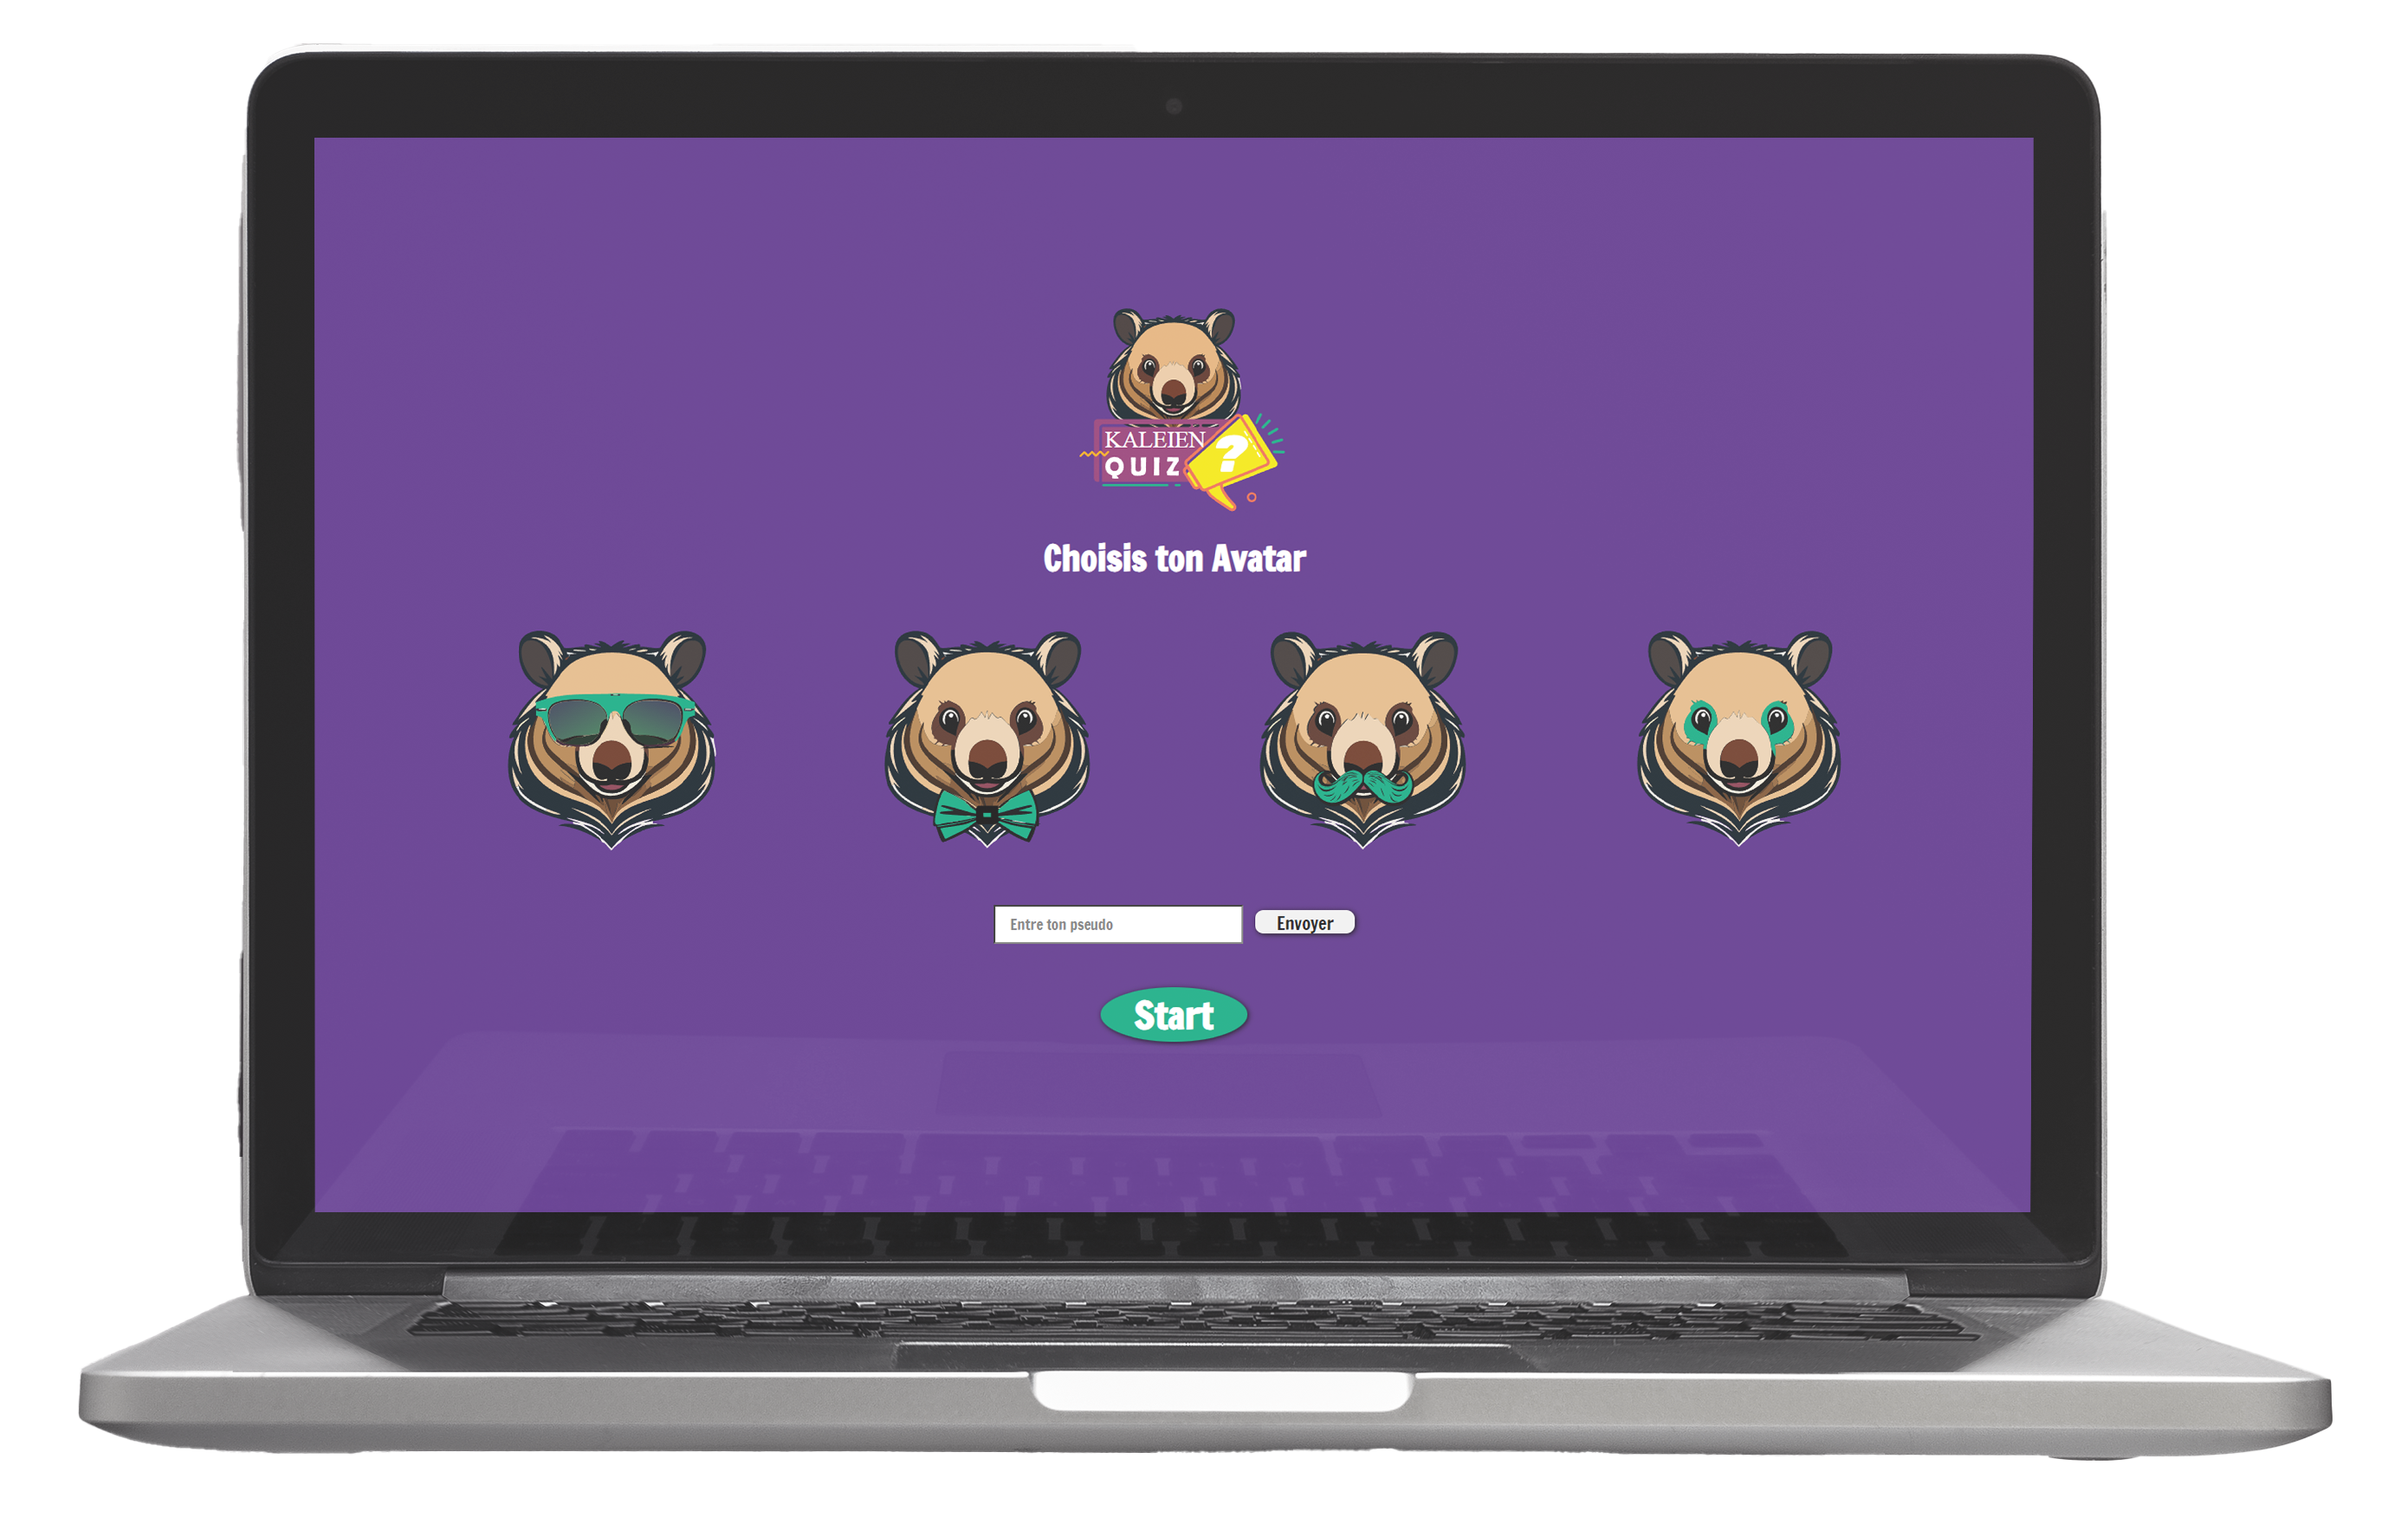
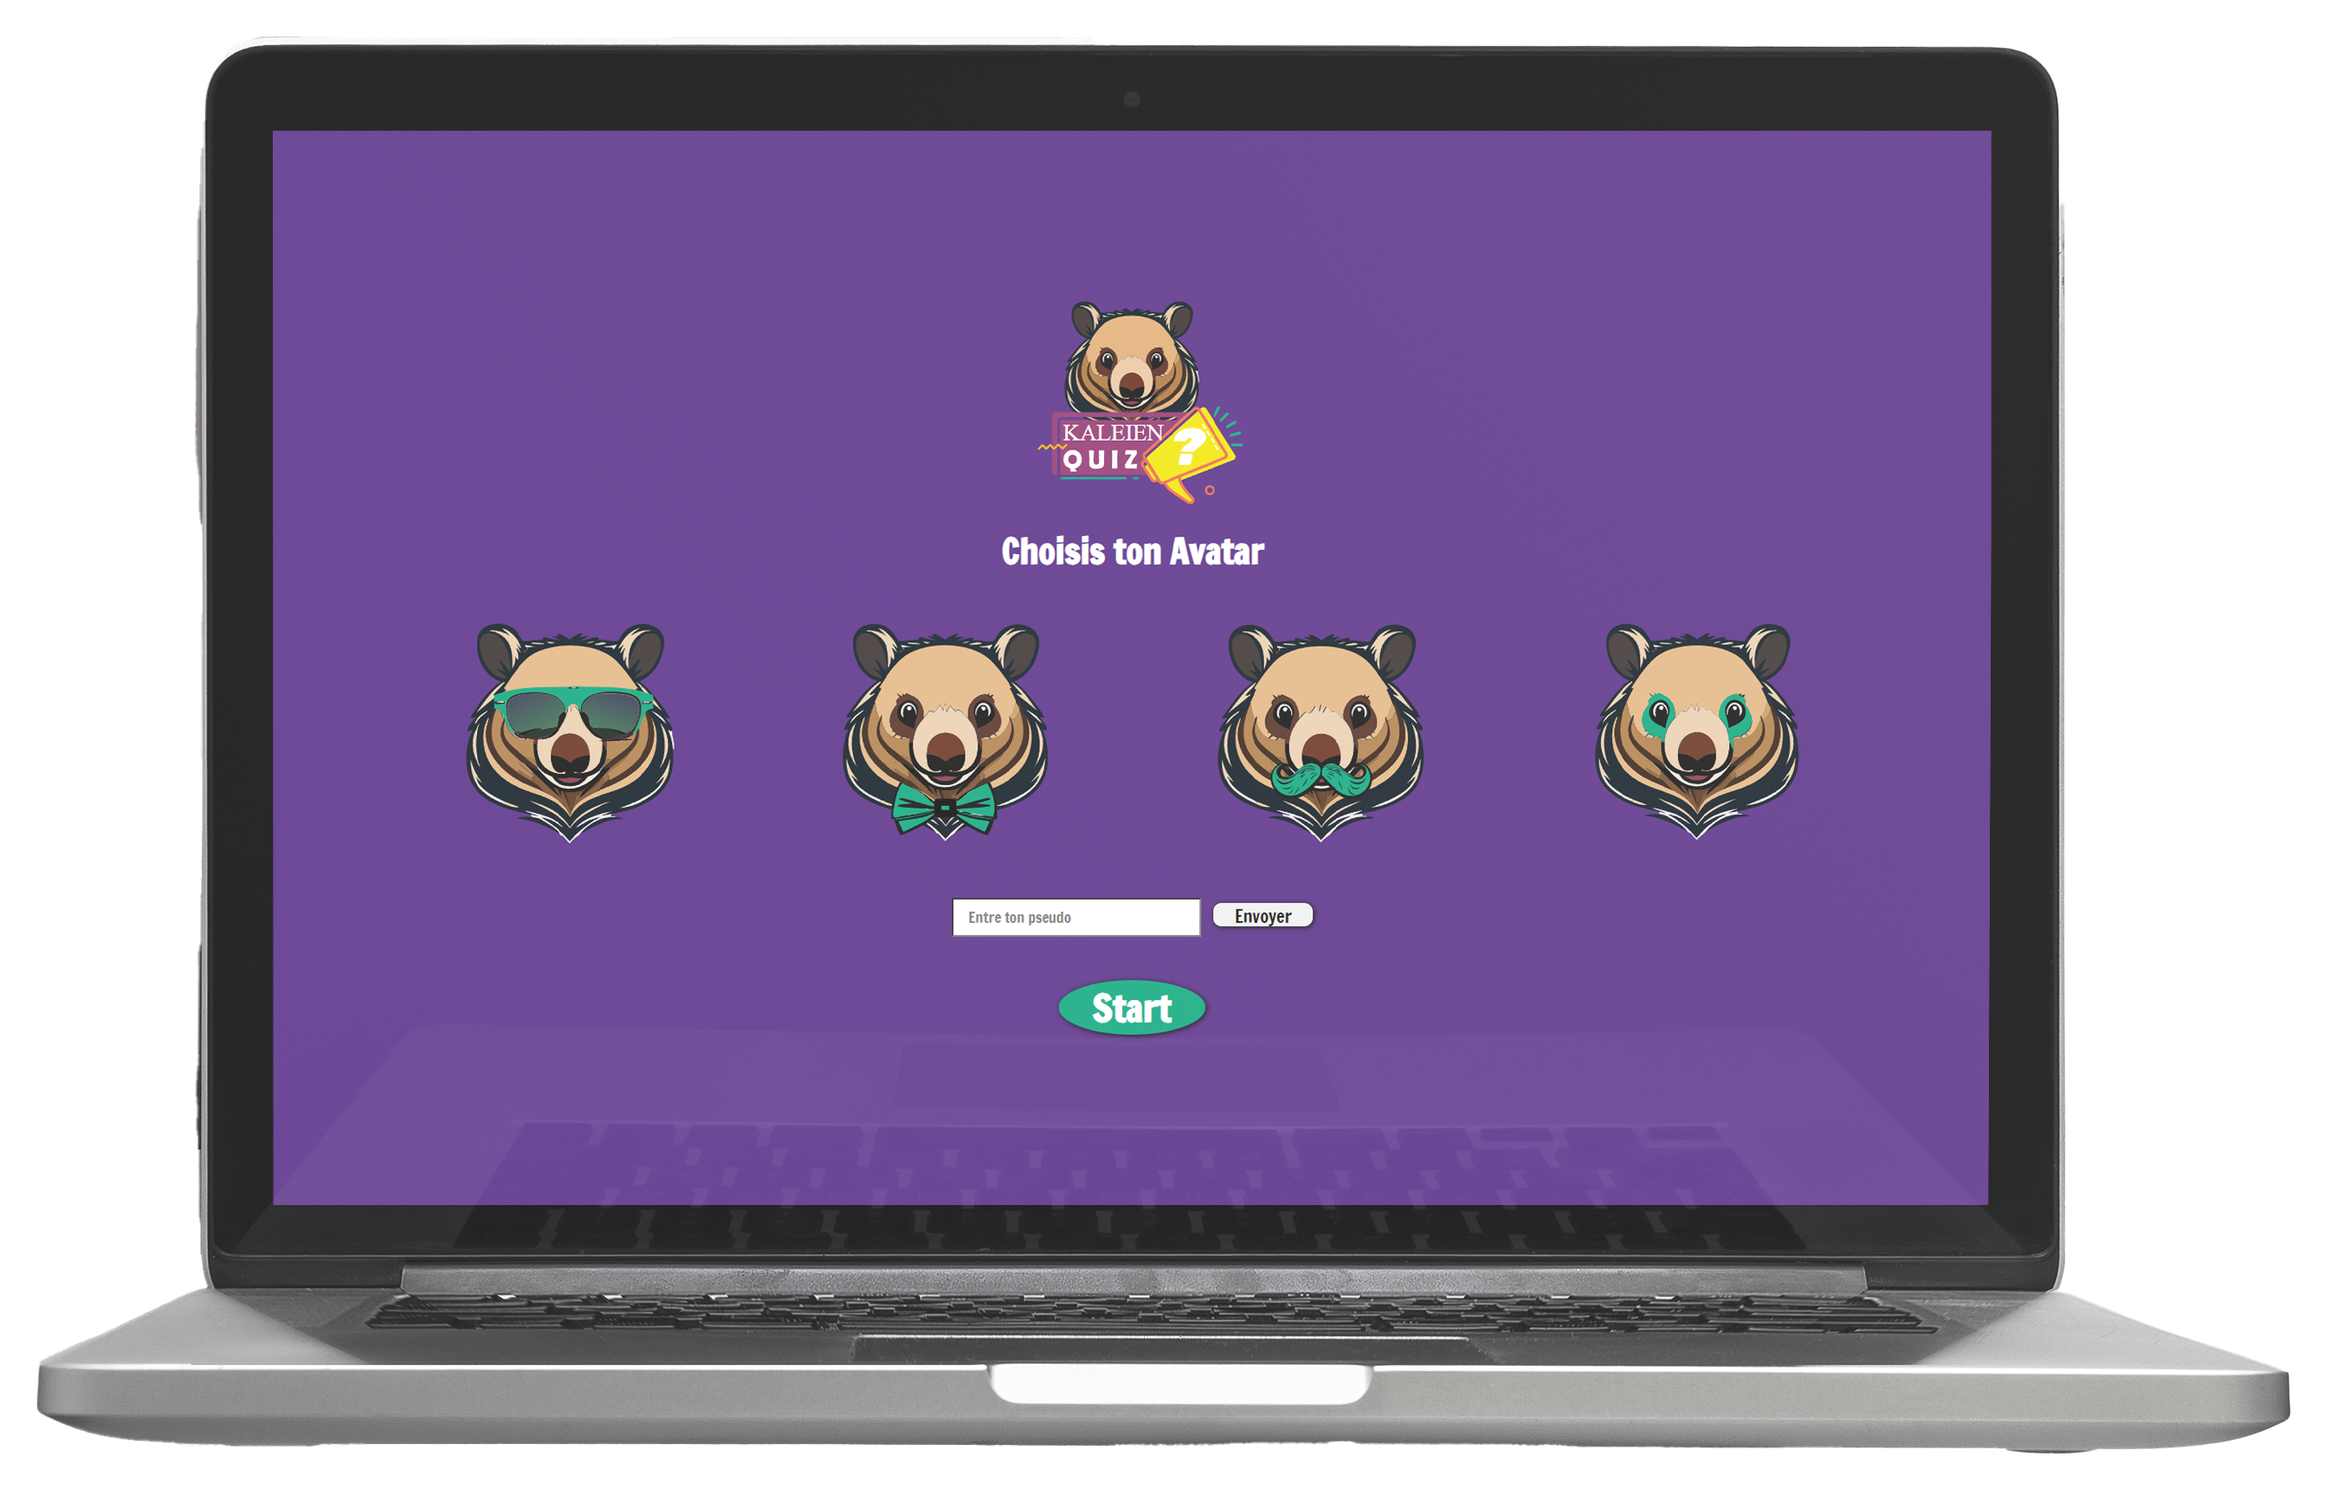
contact form

diff --git a/src/App.css b/src/App.css
@@ -85,7 +85,7 @@
 
 .avatar img {
   width: 60%;
-  filter: drop-shadow(10px 7px 10px orange);
+  filter: drop-shadow(10px 7px 10px rgb(182, 182, 182));
 }
 
 .description {
@@ -97,71 +97,82 @@
 /* --------------------------------------------------- Portfolio ----------------------------------------*/
 
 .portfolioContainer {
-  border: solid brown 2px;
   margin: 0;
   min-width: 20%;
 }
 
 .portfolioBloc {
-  border: solid aqua 2px;
   display: flex;
   flex-direction: column;
   flex-wrap: wrap;
   align-items: center;
 }
 
-.kaleienContainer {
-  border: solid blueviolet 2px;
-  min-width: 600px;
+.projectContainer {
+  border: solid #5e5e60 3px;
+  max-width: 900px;
   min-height: 500px;
   display: flex;
   flex-wrap: wrap;
   flex-direction: row;
   align-items: center;
   justify-content: space-evenly;
+  margin: 20px;
+  border-radius: 10px;
 }
 
 .titleKaleien {
   width: 100%;
 }
-.mobileKaleien {
+.mobileMockup {
   width: 300px;
 }
-.mobileKaleien img {
-  width: 60%;
+.mobileMockup img {
+  filter: drop-shadow(10px 7px 10px rgb(182, 182, 182));
+  width: 80%;
 }
-.deskKaleien {
+.deskMockup {
   width: 300px;
 }
-.deskKaleien img {
+.deskMockup img {
+  filter: drop-shadow(10px 7px 10px rgb(182, 182, 182));
   width: 100%;
 }
 
-.kaleienDesc {
+.projectDesc {
   width: 300px;
   text-align: left;
 }
 
-.lazyflicksContainer {
-  border: solid gold 2px;
-  width: 300px;
-  height: 500px;
-}
-
 .logoHardSkill {
+  display: flex;
   width: 300px;
+  justify-content: space-around;
 }
 
 .logoHardSkill img {
-  width: 20%;
+  width: 10%;
 }
 
 /* --------------------------------------------------- Contact ----------------------------------------*/
 .contactContainer {
-  background-color: beige;
   margin: 0;
 }
+form {
+  margin-top: 20px;
+}
 
+.formRow {
+  margin: 10px 0 20px 0;
+}
+.form-control {
+  max-width: 500px;
+  max-height: 200px;
+}
+
+.formInput {
+  padding: 15px 10px;
+}
 /* --------------------------------------------------- Media Screen ----------------------------------------*/
 
 @media (max-width: 768px) {
@@ -170,7 +181,7 @@
   }
   .navBar {
     align-items: center;
-    justify-content: space-between;
+    justify-content: flex-start;
   }
   .menu.closed {
     display: none;
@@ -194,6 +205,12 @@
 
   .avatar {
     justify-content: center;
+  }
+
+  .projectContainer {
+    flex-direction: column;
+    padding: 20px;
+    gap: 3rem;
   }
 }
 

diff --git a/src/pages/Contact.jsx b/src/pages/Contact.jsx
@@ -1,5 +1,54 @@
 function Contact() {
-  return <div className="contactContainer">Contact</div>;
+  return (
+    <div className="contactContainer">
+      <div className="container">
+        <form>
+          <div className="row formRow">
+            <div className="col-6">
+              <input
+                type="text"
+                name="name"
+                className="form-control formInput"
+                placeholder="Name"
+              ></input>
+            </div>
+            <div className="col-6">
+              <input
+                type="email"
+                name="email"
+                className="form-control formInput"
+                placeholder="Email address"
+              ></input>
+            </div>
+          </div>
+
+          <div className="row formRow">
+            <div className="col">
+              <input
+                type="text"
+                name="subject"
+                className="form-control formInput"
+                placeholder="Subject"
+              ></input>
+            </div>
+          </div>
+
+          <div className="row formRow">
+            <div className="col">
+              <textarea
+                rows={3}
+                name="message"
+                className="form-control formInput"
+                placeholder="Message"
+              ></textarea>
+            </div>
+          </div>
+
+          <button type="submit">Submit</button>
+        </form>
+      </div>
+    </div>
+  );
 }
 
 export default Contact;

diff --git a/src/components/LazyFlicks.jsx b/src/components/LazyFlicks.jsx
@@ -1,7 +1,40 @@
 function LazyFlicks() {
   return (
-    <div className="lazyflicksContainer">
-      <h2>LazyFlicks</h2>
+    <div className="projectContainer">
+      <div className="mobileMockup">
+        <img src="./src/assets/lazyflicks-mobile.png" />
+      </div>
+      <div className="deskMockup">
+        <img src="./src/assets/lazeyflicks-desk.png" />
+      </div>
+      <div className="projectDesc">
+        <h2>LazyFlicks</h2>
+        <p className="description">
+          Création d&apos;une application Front-End - HTML - CSS - JAVASCRIPT -
+          REACT
+        </p>
+        <p className="description">
+          Application : Suggestion de film ou de série via l&apos;API The Movie
+          Data Base en fonction du genre, du type et du plus populaire du
+          moment.
+        </p>
+        <div className="logoHardSkill">
+          <img src="./src/assets/html.png" />
+          <img src="./src/assets/css.png" />
+          <img src="./src/assets/javascript.png" />
+          <img src="./src/assets/github.png" />
+          <img src="./src/assets/git.png" />
+          <img src="./src/assets/react.png" />
+        </div>
+        <p className="description">
+          <a
+            href="https://github.com/WildCodeSchool-2024-02/JS-lyon-0224-P2-lazy_flicks"
+            target="blank"
+          >
+            Code source
+          </a>
+        </p>
+      </div>
     </div>
   );
 }

diff --git a/src/components/Navbar.jsx b/src/components/Navbar.jsx
@@ -12,29 +12,31 @@ function Navbar() {
   };
 
   return (
-    <nav className="navBar">
-      <Link to="/">
-        <img
-          className="logoTn"
-          src="./src/assets/Logo-TN-noir.svg"
-          alt="Logo"
-        />
-      </Link>
-      <div className={`menu ${menuOpen ? "open" : "closed"}`}>
-        <Link to="/" onClick={toggleMenu}>
-          <h2>Accueil</h2>
+    <div>
+      <nav className="navBar">
+        <Link to="/">
+          <img
+            className="logoTn"
+            src="./src/assets/Logo-TN-noir.svg"
+            alt="Logo"
+          />
         </Link>
-        <Link to="/portfolio" onClick={toggleMenu}>
-          <h2>Portfolio</h2>
-        </Link>
-        <Link to="/contact" onClick={toggleMenu}>
-          <h2>Contact</h2>
-        </Link>
-      </div>
-      <div className="Hamburger" onClick={toggleMenu}>
-        <Hamburger />
-      </div>
-    </nav>
+        <div className={`menu ${menuOpen ? "open" : "closed"}`}>
+          <Link to="/" onClick={toggleMenu}>
+            <h2>Accueil</h2>
+          </Link>
+          <Link to="/portfolio" onClick={toggleMenu}>
+            <h2>Portfolio</h2>
+          </Link>
+          <Link to="/contact" onClick={toggleMenu}>
+            <h2>Contact</h2>
+          </Link>
+        </div>
+        <div className="Hamburger" onClick={toggleMenu}>
+          <Hamburger />
+        </div>
+      </nav>
+    </div>
   );
 }
 

diff --git a/src/components/Kaleien.jsx b/src/components/Kaleien.jsx
@@ -1,16 +1,18 @@
 function Kaleien() {
   return (
-    <div className="kaleienContainer">
-      <div className="mobileKaleien">
+    <div className="projectContainer">
+      <div className="mobileMockup">
         <img src="./src/assets/kaleien-mobile.png" />
       </div>
-      <div className="deskKaleien">
+      <div className="deskMockup">
         <img src="./src/assets/kaleien-desk.png" />
       </div>
-      <div className="kaleienDesc">
+      <div className="projectDesc">
         <h2>Kaleien Quiz</h2>
         <p className="description">
-          Création d’une application Front-End - HTML - CSS - JAVASCRIPT
+          Création d&apos;une application Front-End - HTML - CSS - JAVASCRIPT
+        </p>
+        <p className="description">
           Application : Quiz de 10 questions de culture générale avec une
           personnalisation de son pseudo et de son avatar
         </p>
@@ -18,7 +20,14 @@ function Kaleien() {
           <img src="./src/assets/html.png" />
           <img src="./src/assets/css.png" />
           <img src="./src/assets/javascript.png" />
+          <img src="./src/assets/github.png" />
+          <img src="./src/assets/git.png" />
         </div>
+        <p className="description">
+          <a href="https://github.com/wilderLPM/P1lesEwoks" target="blank">
+            Code source
+          </a>
+        </p>
       </div>
     </div>
   );

diff --git a/src/index.css b/src/index.css
@@ -1,5 +1,5 @@
 main {
-  width: 100%;
+  width: 150vh;
   text-align: center;
   background-color: white;
   font-family: "Roboto", sans-serif;
@@ -47,6 +47,7 @@ button {
   background-color: #1a1a1a;
   cursor: pointer;
   transition: border-color 0.25s;
+  color: white;
 }
 button:hover {
   border-color: #646cff;
